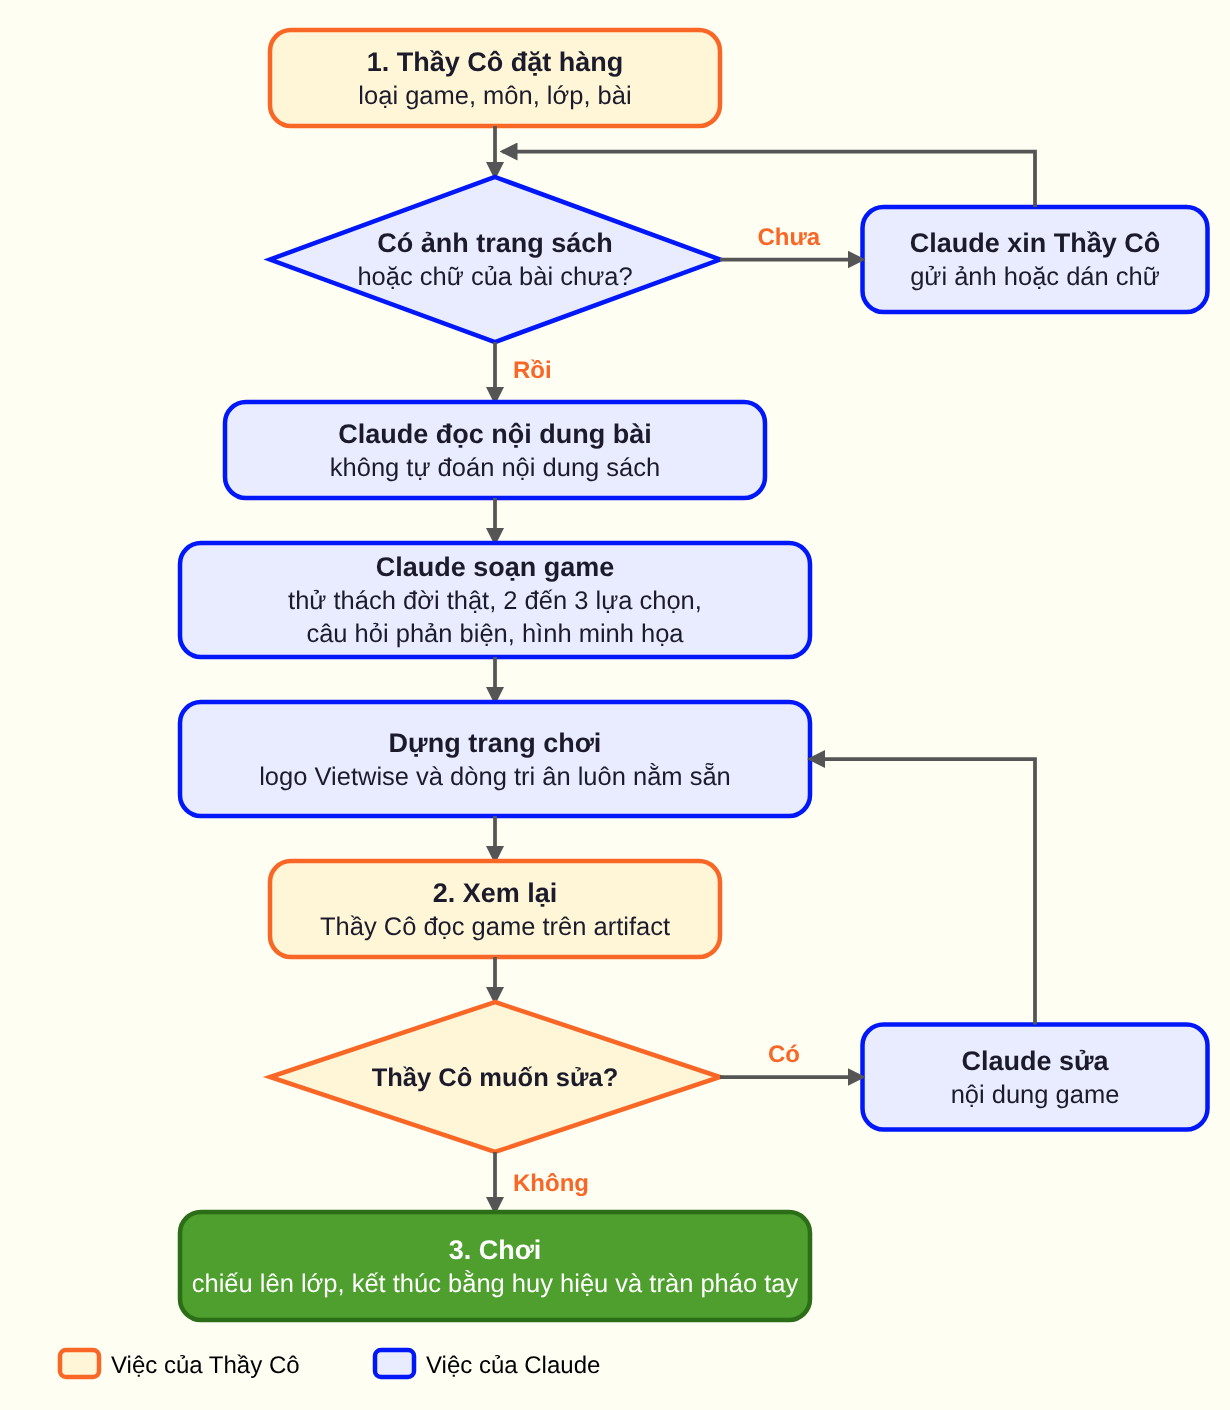
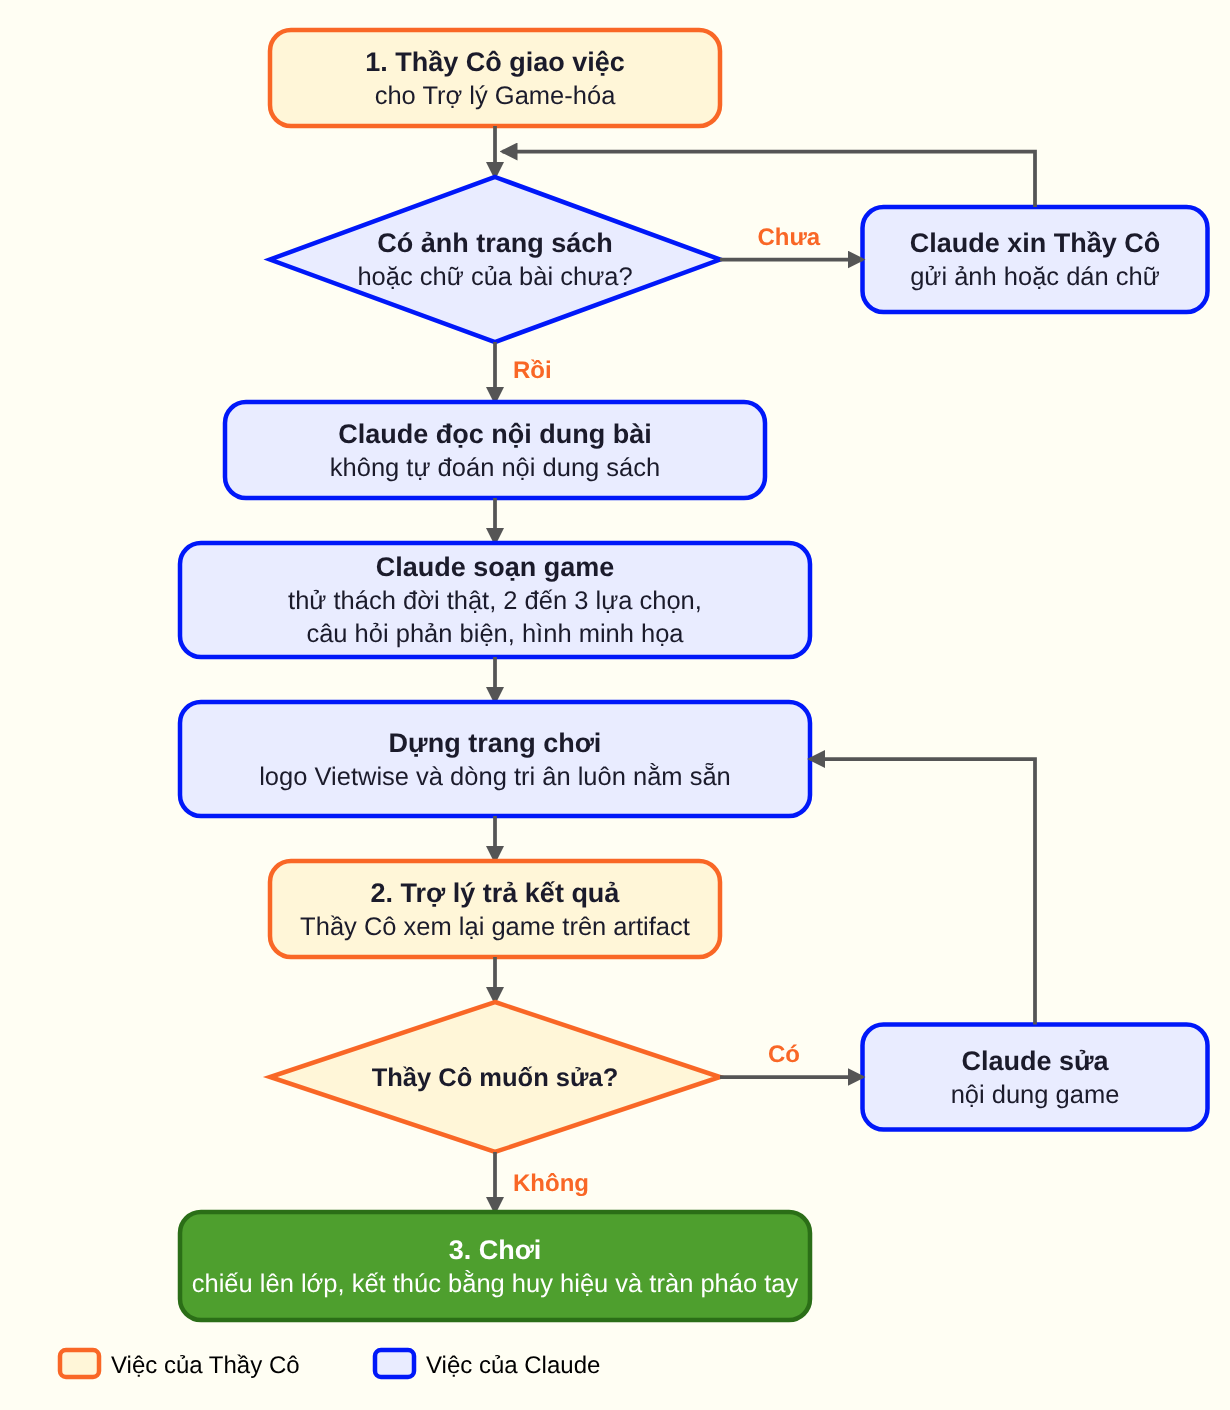
Đổi từ đặt hàng thành giao việc cho Trợ lý Game-hóa, bước 2 là trả kết quả
Claude-Session: https://claude.ai/code/session_01L3vHZxmGbhgceiMVKxMLRY

Changed region(s): [[0.2472, 0.6241, 0.5561, 0.6865], [0.278, 0.0312, 0.5252, 0.0936]]

diff --git a/skill/game-hoc-vietwise/SKILL.md b/skill/game-hoc-vietwise/SKILL.md
@@ -13,8 +13,8 @@ Dịch vụ không thu phí. Gọi giáo viên là "Thầy Cô". Game chơi ngay
 3. Chỉ được thay phần dữ liệu game (chỗ `__GAME_JSON__`). Mọi chỉnh sửa theo ý Thầy Cô chỉ áp lên nội dung game.
 4. Không bịa số liệu, trích dẫn, số trang. Không có thi đua, điểm số, xếp hạng.
 
-## Quy trình 1-2-3 (đặt hàng, xem lại, chơi; nói với Thầy Cô bằng lời gần gũi, không nhắc tên tệp)
-### 1. Thầy Cô đặt hàng
+## Quy trình 1-2-3 (giao việc, trả kết quả, chơi; nói với Thầy Cô bằng lời gần gũi, không nhắc tên tệp)
+### 1. Thầy Cô giao việc
 Cần: loại game (mở tiết, ôn bài, hay Sách là Thầy), môn, lớp, bài. Hỏi lại MỘT lần nếu thiếu; có thể hỏi thêm sĩ số và điều Thầy Cô muốn học sinh nhận ra. Nếu Thầy Cô chưa chọn loại, gợi ý: bài chưa học → mở tiết; bài đã học → ôn bài; có một cuốn sách → Sách là Thầy.
 
 ### 2. Tham chiếu sách giáo khoa
@@ -30,12 +30,12 @@ Cần: loại game (mở tiết, ôn bài, hay Sách là Thầy), môn, lớp, b
 - Vẽ một hình minh họa cho cảnh trong lời kể: trường `hinh_minh_hoa` là một chuỗi SVG phẳng, nhiều màu, không quá 3000 ký tự, viewBox "0 0 600 240", có sẵn vật thể thật của tình huống (xem ví dụ trong `references/vi-du/on-bai-khtn8-mol-nong-do.json`). Không chứa script, không link, không ảnh nhúng. Không viết đáp án lên hình (dùng dấu ? nếu cần). Luôn đặt `chau_ngoc`: trình chơi sẽ hiện nhân vật Bé Não tương ứng (cần chạy script ở bước dựng trang).
 - Viết JSON theo khung. Không dùng `tuong_tac`, `boi_canh`, `sprite`.
 
-### 4. Dựng trang chơi (artifact) và chơi ngay
+### 4. Dựng trang chơi (artifact) để trả kết quả
 - Nếu chạy được mã: lưu JSON ra `game.json`, chạy `python3 scripts/dung_trang.py game.json game.html`. Script kiểm tra khối ghi nguồn; nếu in "DỪNG" thì không được tiếp tục, báo Thầy Cô cài lại Skill gốc. Rồi hiển thị `game.html` thành artifact.
 - Nếu không chạy được mã: sao chép NGUYÊN VĂN toàn bộ `assets/trinh-choi.html` vào artifact HTML, chỉ thay đúng chữ `__GAME_JSON__` bằng JSON game (đổi mọi `</` trong dữ liệu thành `<\/`). Không sửa một ký tự nào khác. Nếu trang hiện thông báo "Trang này đã bị gỡ hoặc sửa phần ghi nguồn", nghĩa là chép sai; làm lại cẩn thận.
 - Hướng dẫn Thầy Cô: bấm "Tiếp" hoặc phím mũi tên để sang bước; chạm thẻ để lật; "Chế độ Thầy Cô" (phím G) hiện đáp án và ghi chú; chiếu lên màn hình lớp.
 
-### 5. Thầy Cô duyệt
+### 5. Trả kết quả và Thầy Cô duyệt
 Đọc nhanh cho Thầy Cô: tên game, tình huống, các lựa chọn, câu hỏi, ghi chú riêng. Hỏi Thầy Cô muốn sửa gì; sửa nội dung game rồi dựng lại trang (quy tắc không thay đổi vẫn giữ). Mỗi lần sửa dựng lại cả trang từ mẫu gốc.
 
 ## Giọng nói

diff --git a/skill/game-hoc-vietwise/README.md b/skill/game-hoc-vietwise/README.md
@@ -15,19 +15,19 @@ Bộ này có 3 loại game, không thi đua, không chấm điểm:
 Nếu tài khoản của Thầy Cô chưa có mục Skills, hãy báo cho Vườn Game-học qua Vietwise.edu.vn để được hướng dẫn cách khác.
 
 ## Dùng (dễ như 1-2-3)
-1. **Đặt hàng**: nhắn cho Claude, ví dụ: "Tạo game ôn bài Khoa học tự nhiên lớp 8, bài mol và nồng độ", và gửi kèm **ảnh chụp trang sách** (hoặc dán chữ của bài).
-2. **Xem lại**: Claude tạo game và hiện ngay thành một trang chơi. Thầy Cô đọc, nói muốn sửa gì thì Claude sửa nội dung.
+1. **Giao việc cho Trợ lý Game-hóa**: nhắn cho Claude, ví dụ: "Tạo game ôn bài Khoa học tự nhiên lớp 8, bài mol và nồng độ", và gửi kèm **ảnh chụp trang sách** (hoặc dán chữ của bài).
+2. **Trả kết quả**: Trợ lý Game-hóa tạo game và trả về ngay thành một trang chơi. Thầy Cô xem lại, nói muốn sửa gì thì Trợ lý sửa nội dung.
 3. **Chơi**: chiếu lên lớp. Phím mũi tên để sang bước, chạm vào thẻ để lật, nút "Chế độ Thầy Cô" (phím G) hiện đáp án và ghi chú riêng.
 
 Tìm trang sách để chụp: trang tập huấn theo lớp tại https://taphuan.nxbgd.vn/tap-huan?grade=N (N từ 1 đến 12).
 
 ## Skill làm việc thế nào (sơ đồ)
 
-![Sơ đồ quy trình: Thầy Cô đặt hàng, Claude đọc bài và soạn game, dựng trang chơi, Thầy Cô xem lại rồi chơi](flowchart-quy-trinh.png)
+![Sơ đồ quy trình: Thầy Cô giao việc, Claude đọc bài và soạn game, dựng trang chơi và trả kết quả, Thầy Cô xem lại rồi chơi](flowchart-quy-trinh.png)
 
 Ô vàng là việc của Thầy Cô, ô xanh là việc của Claude.
 
-**Dạng chữ (nếu máy không hiện được ảnh):** Thầy Cô đặt hàng, rồi gửi ảnh trang sách hoặc dán chữ. Claude đọc bài, soạn game, dựng trang chơi trên artifact. Thầy Cô xem lại; muốn sửa thì nhờ Claude sửa rồi dựng lại. Hài lòng thì chiếu lên lớp và chơi.
+**Dạng chữ (nếu máy không hiện được ảnh):** Thầy Cô giao việc, rồi gửi ảnh trang sách hoặc dán chữ. Trợ lý đọc bài, soạn game, trả kết quả là một trang chơi trên artifact. Thầy Cô xem lại; muốn sửa thì nhờ Claude sửa rồi dựng lại. Hài lòng thì chiếu lên lớp và chơi.
 
 ### Trong một lượt chơi, cả lớp đi qua các bước
 
